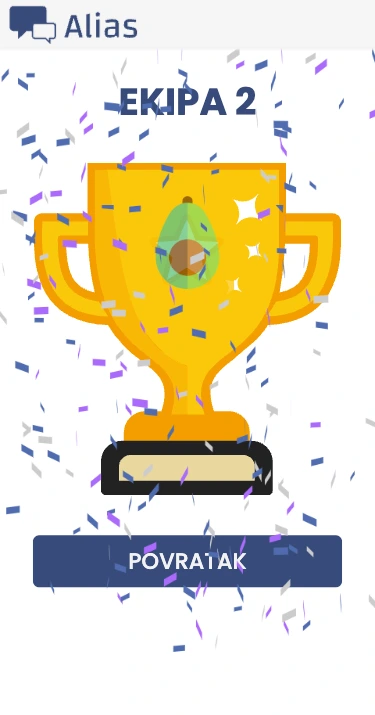
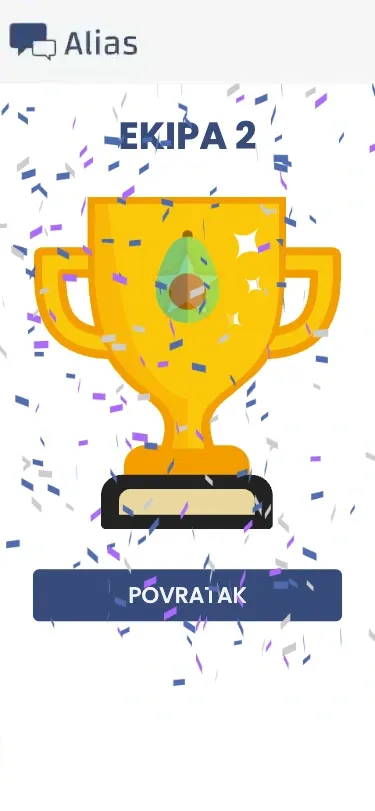
Update project carousel vertical and alias images

diff --git a/components/Project/ProjectCarouselVertical.vue b/components/Project/ProjectCarouselVertical.vue
@@ -21,7 +21,7 @@ const currentImageTitle = computed(() => props.images.at(currentSlide.value)?.ti
 </script>
 
 <template>
-  <div class="flex flex-col items-center relative pt-4 h-[480px] sm:h-[648px]">
+  <div class="flex flex-col items-center relative pt-4 h-[530px] sm:h-[710px]">
     <Carousel
       v-bind="galleryConfig"
       v-model="currentSlide"
@@ -47,7 +47,7 @@ const currentImageTitle = computed(() => props.images.at(currentSlide.value)?.ti
       fetchpriority="high"
       alt=""
       aria-hidden
-      class="absolute w-[254px] h-auto -top-0.5 sm:w-[346px] sm:-top-1.5 z-10 select-none pointer-events-none"
+      class="absolute w-[254px] h-auto -top-0.5 sm:w-[343px] sm:-top-1 z-10 select-none pointer-events-none"
     />
     <p class="absolute bottom-0 text-center text-grey-200 text-sm sm:text-base">
       {{ currentImageTitle }}

diff --git a/components/Project/ProjectCard.vue b/components/Project/ProjectCard.vue
@@ -25,7 +25,7 @@ const imgAlt = computed(() => `${props.project.name} preview`)
     />
 
     <div class="p-4 md:p-8 sm:min-h-[220px] md:min-h-[266.66px]">
-      <div class="flex gap-4 justify-between">
+      <div class="flex gap-4 justify-between items-baseline">
         <MyHeading :level="4" as="h2" class="font-medium max-w-[75%] md:max-w-[85%]">{{
           project.name
         }}</MyHeading>
